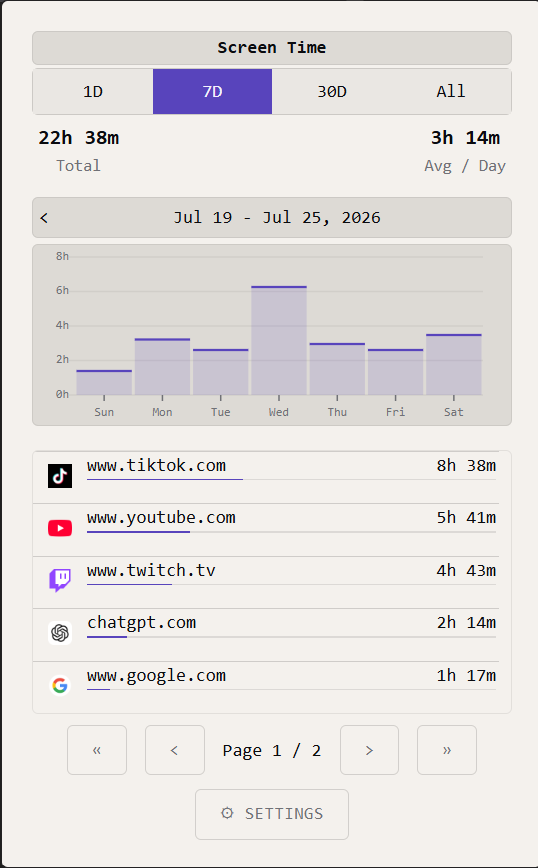
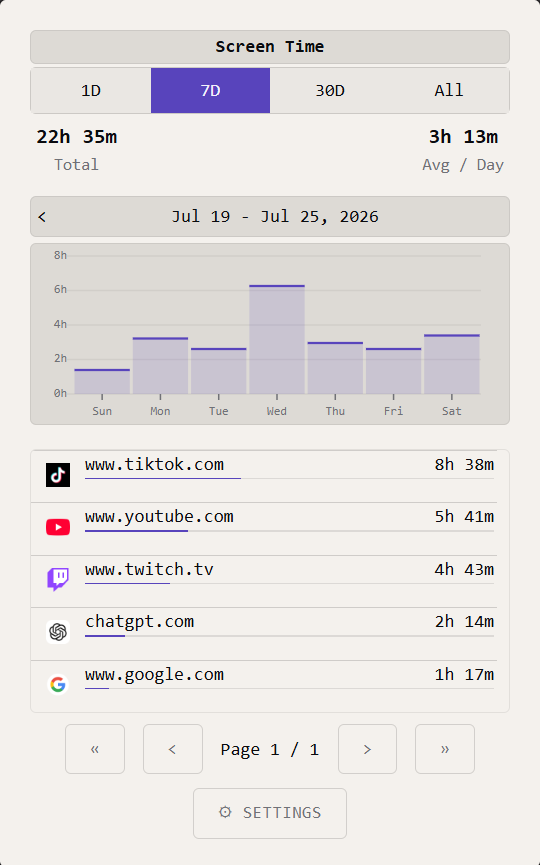
new screenshots

diff --git a/README.md b/README.md
@@ -2,7 +2,7 @@
 
 Chrono is a lightweight Chrome extension that monitors your daily screen time across websites.  
 
- ![Screenshot 1](./screenshots/1.PNG)  ![Screenshot 2](./screenshots/2.PNG) 
+ ![Screenshot 1](./screenshots/1.png)  ![Screenshot 2](./screenshots/2.png) 
 
 ---
 
